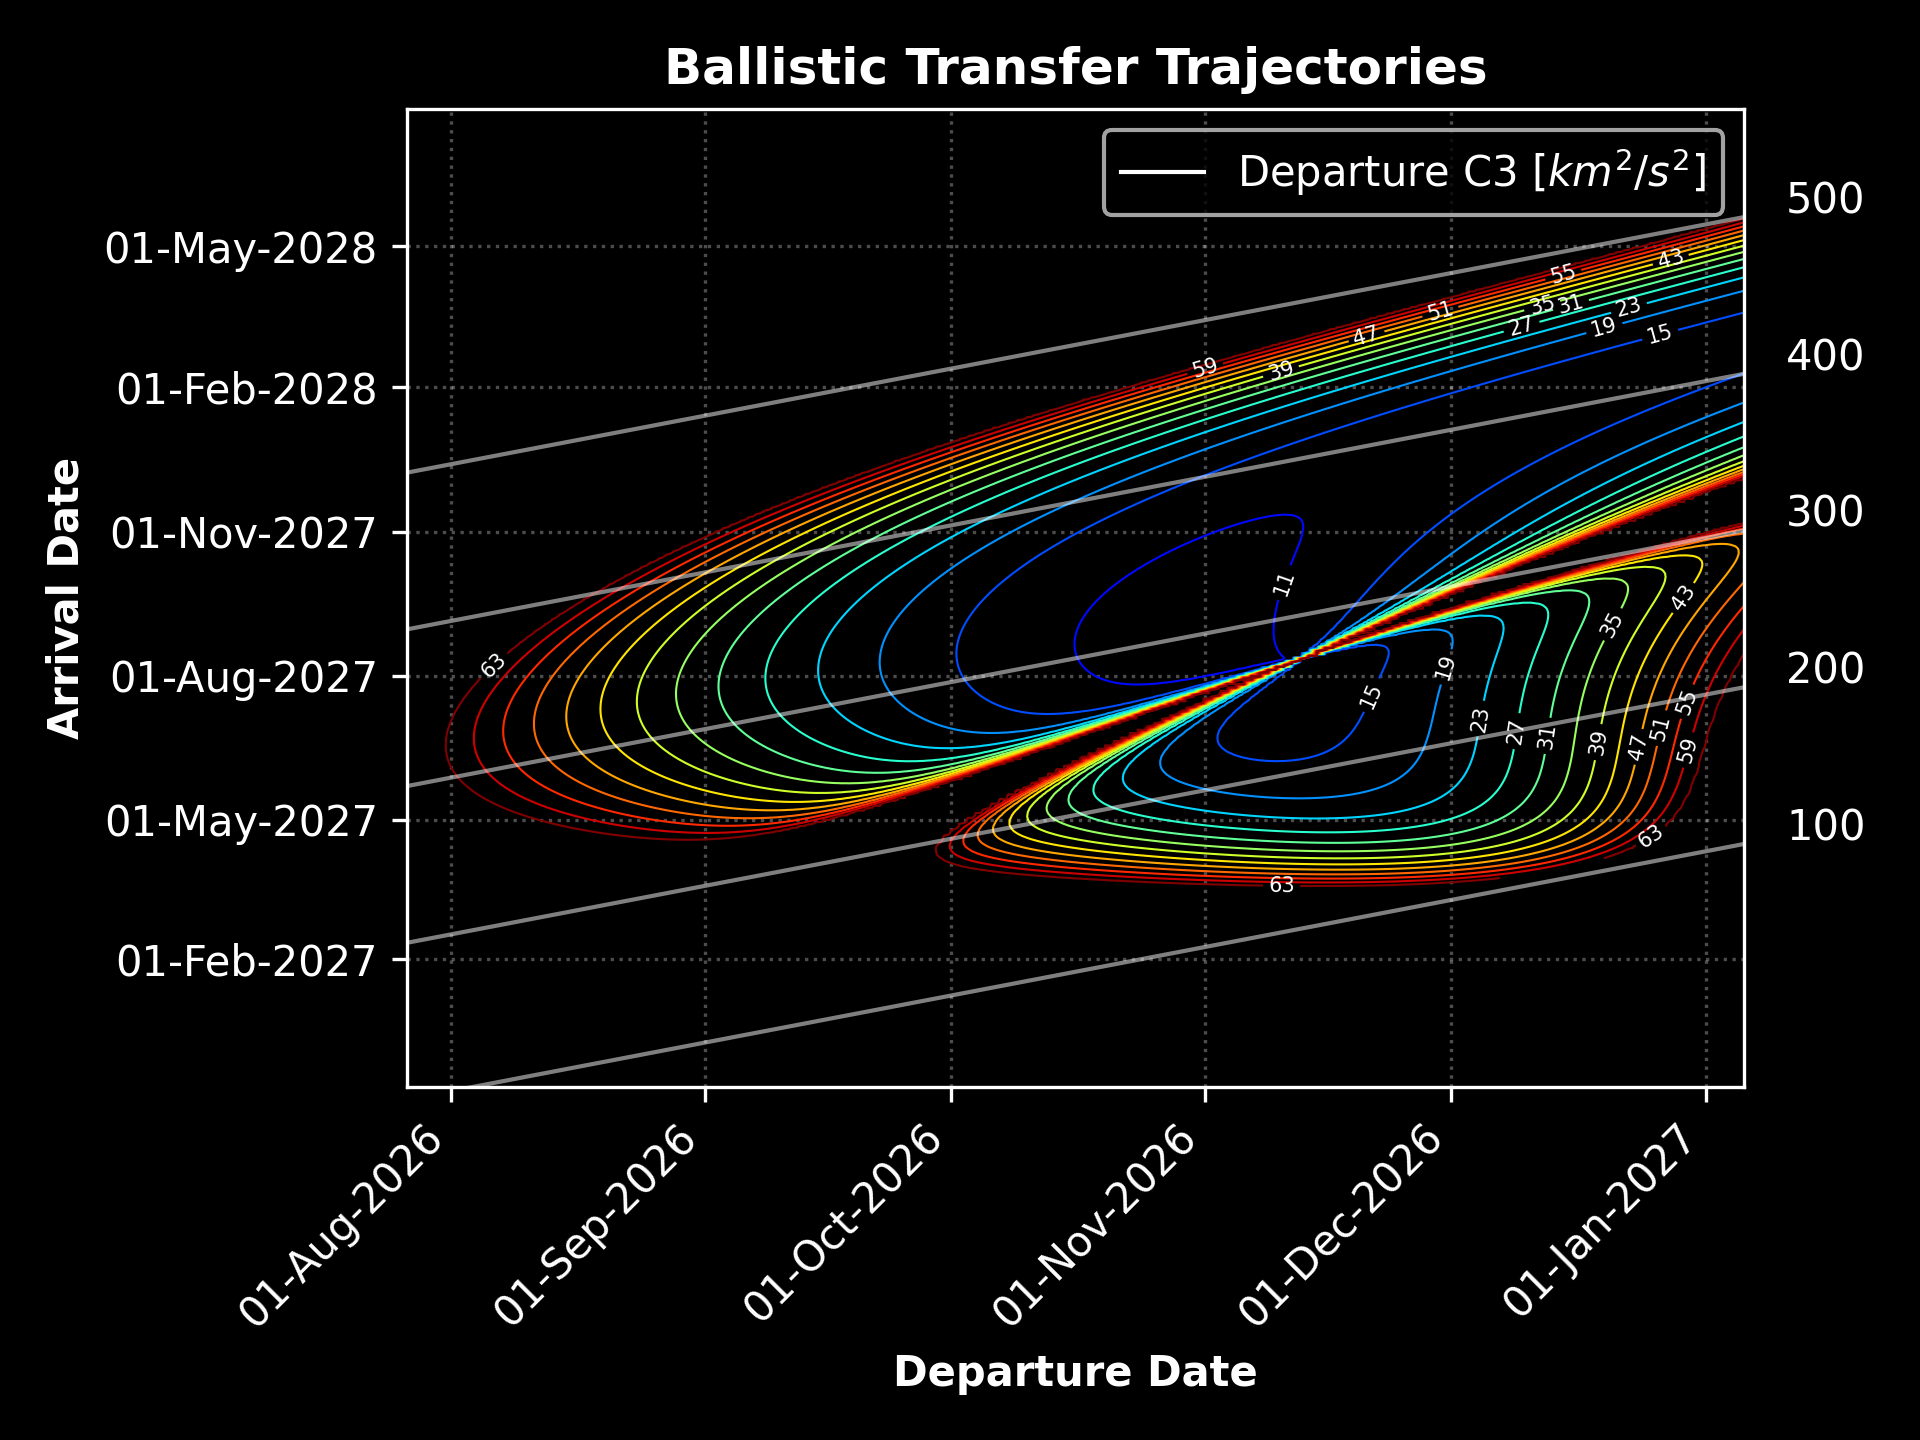
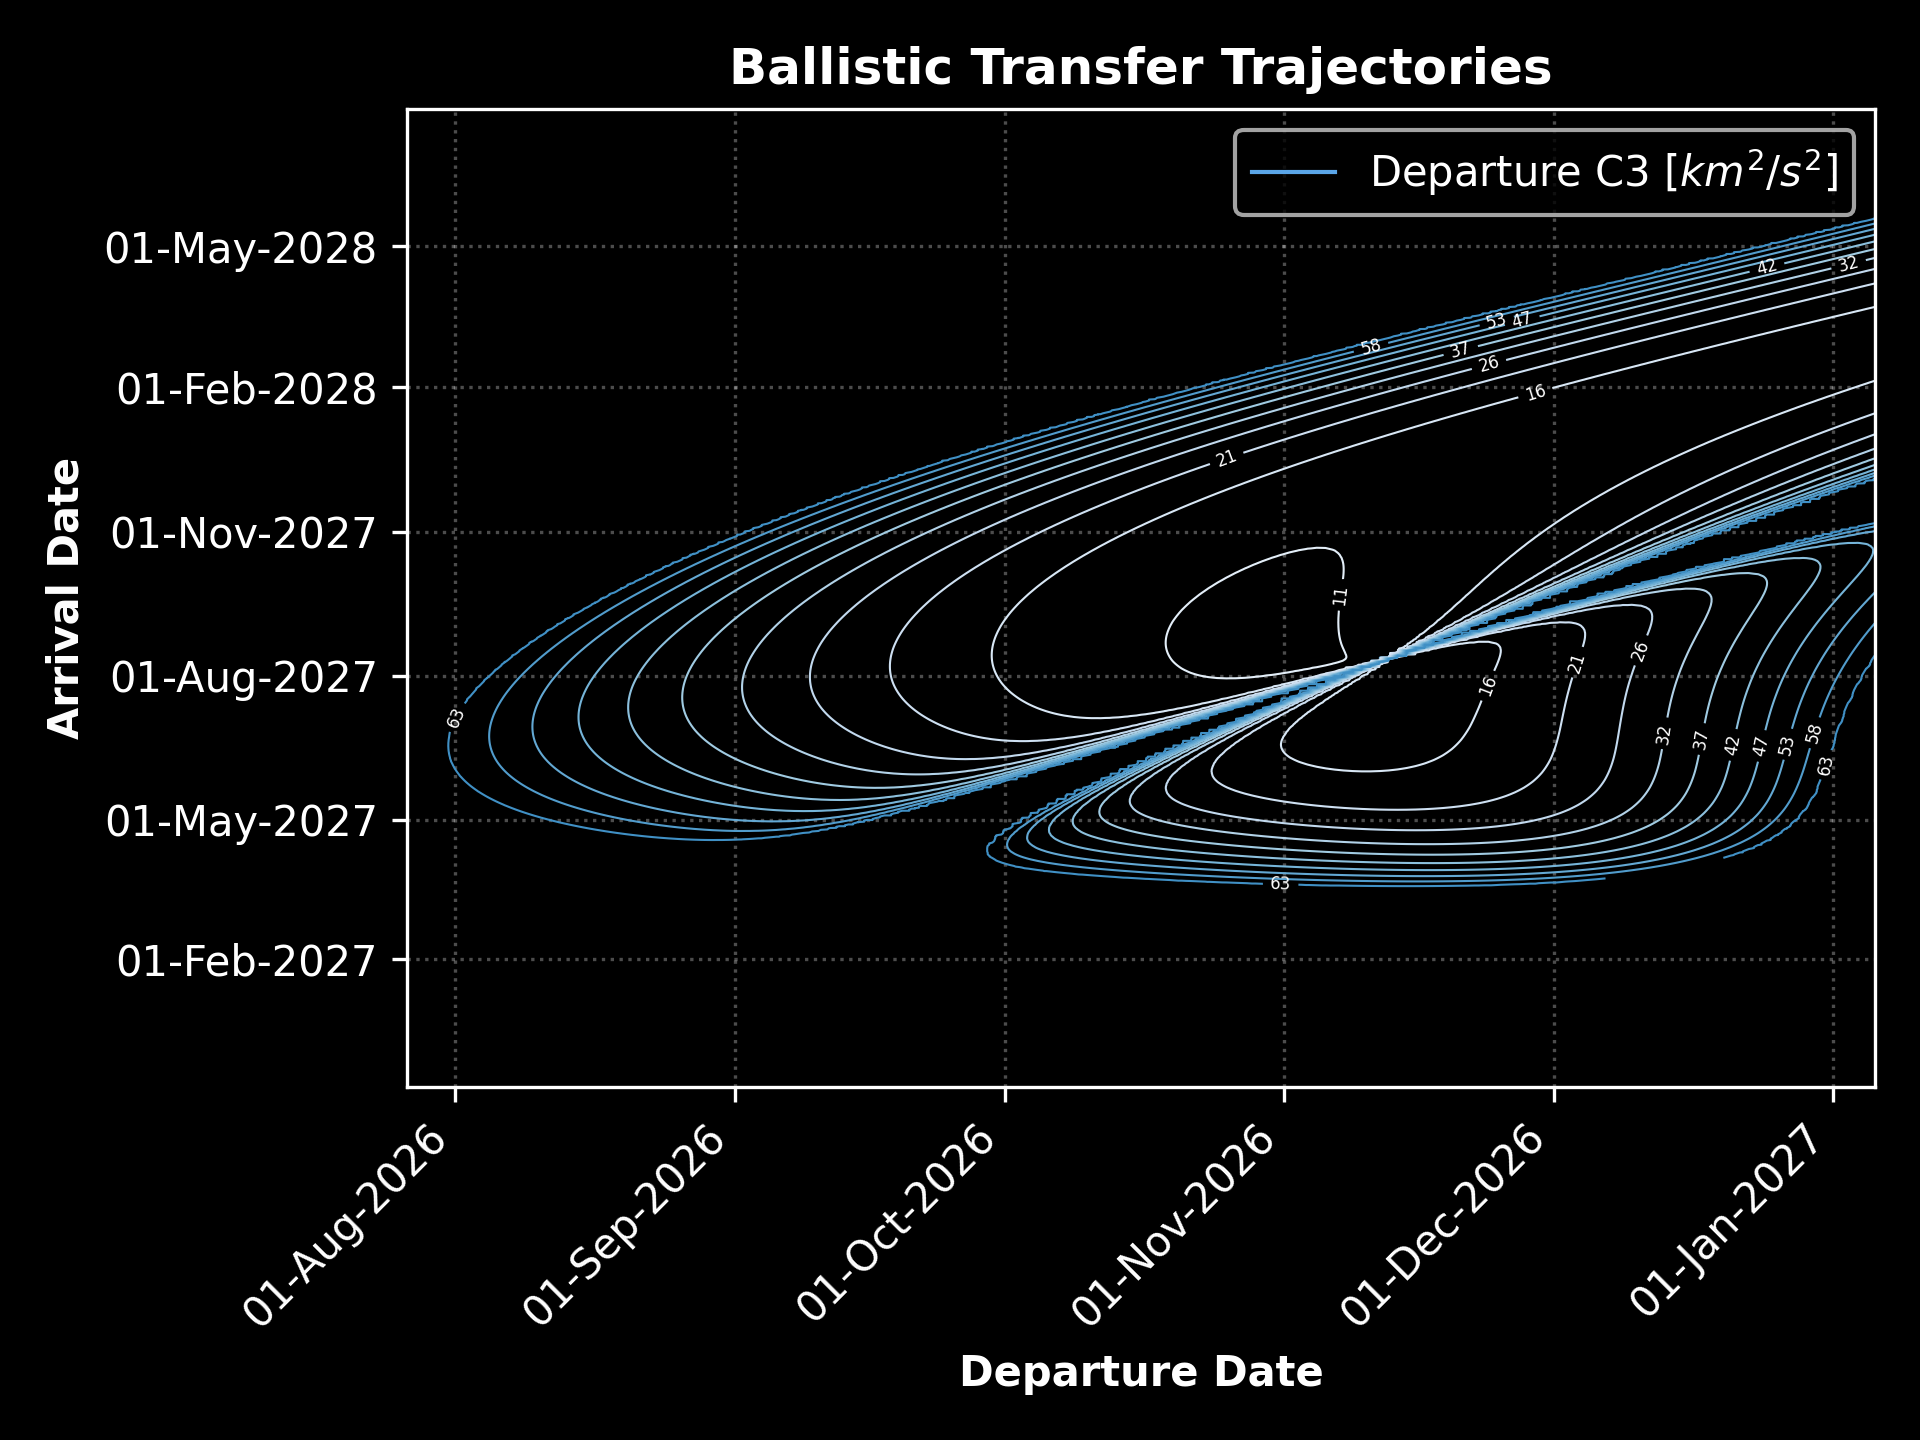
Update porkchop_plot.png

diff --git a/plotter-python/plot.py b/plotter-python/plot.py
@@ -45,7 +45,7 @@ delta_vs = np.array(
 )
 
 
-def plot_tof_vs_DV(pmin, pmax):
+def plot_tof_vs_DV(pmin: float, pmax: float):
     # Temporary array that will be filld in clipped values from all delta_vs
     temp = []
 
@@ -96,7 +96,14 @@ def plot_tof_vs_DV(pmin, pmax):
 
 
 def plot_contour(
-    lw, levels, dep_max_C3, arr_max_C3, plot_arrival=False, tof_contour=False
+    lw: float,
+    dep_levels: np.ndarray,
+    arr_levels: np.ndarray,
+    dep_max_C3: float,
+    arr_max_C3: float,
+    plot_departure: bool = True,
+    plot_arrival: bool = False,
+    tof_contour: bool = False,
 ):
 
     # Departure C3 Type 1
@@ -112,27 +119,28 @@ def plot_contour(
     # Create fig + ax objects
     fig, ax = plt.subplots()
 
-    # Type 1 Departure Energy Contour Lines
-    type1_dep_lines = ax.tricontour(
-        x_type1_num,  # <-- original floats from Julian Date
-        y_type1_num,
-        C3_dep_type1_cap,
-        levels=levels,
-        cmap="jet",
-        linewidths=lw,
-    )
-    ax.clabel(type1_dep_lines, inline=True, fontsize=5, fmt="%.0f", colors="white")
+    if plot_departure:
+        # Type 1 Departure Energy Contour Lines
+        type1_dep_lines = ax.tricontour(
+            x_type1_num,  # <-- original floats from Julian Date
+            y_type1_num,
+            C3_dep_type1_cap,
+            levels=dep_levels,
+            cmap="gnuplot2_r",
+            linewidths=lw,
+        )
+        ax.clabel(type1_dep_lines, inline=True, fontsize=4, fmt="%.0f", colors="white")
 
-    # Type 2 Departure Energy Contour Lines
-    type2_dep_lines = ax.tricontour(
-        x_type2_num,
-        y_type2_num,
-        C3_dep_type2_cap,
-        levels=levels,
-        cmap="jet",
-        linewidths=lw,
-    )
-    ax.clabel(type2_dep_lines, inline=True, fontsize=5, fmt="%.0f", colors="white")
+        # Type 2 Departure Energy Contour Lines
+        type2_dep_lines = ax.tricontour(
+            x_type2_num,
+            y_type2_num,
+            C3_dep_type2_cap,
+            levels=dep_levels,
+            cmap="gnuplot2_r",
+            linewidths=lw,
+        )
+        ax.clabel(type2_dep_lines, inline=True, fontsize=4, fmt="%.0f", colors="white")
 
     if plot_arrival:
         # Type 1 Arrival Energy Contour Lines
@@ -140,24 +148,24 @@ def plot_contour(
             x_type1_num,
             y_type1_num,
             C3_arr_type1_cap,
-            levels=levels,
-            colors="red",
+            levels=arr_levels,
+            cmap="YlOrRd",
             linewidths=lw,
-            alpha=0.5,
+            alpha=0.99,
         )
-        ax.clabel(type1_arr_lines, inline=True, fontsize=5, fmt="%.0f", colors="red")
+        ax.clabel(type1_arr_lines, inline=True, fontsize=4, fmt="%.0f", colors="white")
 
         # Type 2 Arrival Energy Contour Lines
         type2_arr_lines = ax.tricontour(
             x_type1_num,
             y_type1_num,
             C3_arr_type2_cap,
-            levels=levels,
-            colors="red",
+            levels=arr_levels,
+            cmap="YlOrRd",
             linewidths=lw,
-            alpha=0.5,
+            alpha=0.99,
         )
-        ax.clabel(type2_arr_lines, inline=True, fontsize=5, fmt="%.0f", colors="red")
+        ax.clabel(type2_arr_lines, inline=True, fontsize=4, fmt="%.0f", colors="white")
 
     if tof_contour:
         # TOF Contours Lines
@@ -196,8 +204,8 @@ def plot_contour(
 
     # Custom legend format
     custom_lines = [
-        Line2D([0], [0], color="white", lw=1),
-        Line2D([0], [0], color="red", lw=1),
+        Line2D([0], [0], lw=1),
+        Line2D([0], [0], lw=1),
     ]
 
     if plot_arrival:
@@ -213,10 +221,19 @@ def plot_contour(
 
 
 if __name__ == "__main__":
-    levels = np.arange(3, 64, 4)
+    departure_levels = np.linspace(0, 100, 20)
+    arrival_levels = np.linspace(0, 100, 15)
     linewidth = 0.5
     max_C3 = 64
 
-    plot_contour(linewidth, levels, max_C3, max_C3, tof_contour=True, plot_arrival=False)
+    plot_contour(
+        linewidth,
+        departure_levels,
+        arrival_levels,
+        max_C3,
+        max_C3,
+        plot_departure=True,
+        plot_arrival=False,
+    )
 
     # plot_tof_vs_DV(pmin=10, pmax=40)
